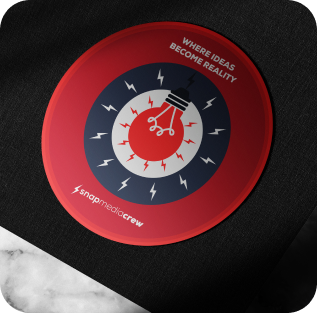
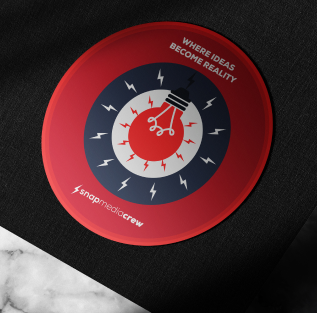
fixed meetme animations and design animations, design animations yet to be finished

diff --git a/index.html b/index.html
@@ -376,113 +376,102 @@
             <div class="container">
                 <div class="row g-lg-5">
                     <div class="col-lg-4 col-md-12 col-sm-12 col-12 mb-lg-5 mb-md-4 mb-sm-3 mb-3">
-                        <div class="rounded-5 card design-card">
-                            <img src="./images/design-folio/1.jpg" class="card-img rounded-5 img-fluid" alt="...">
-                            <div class="card-img-overlay d-flex align-items-center justify-content-center flex-column design-item">
-                                <h5 class="card-design-title fw-bolder text-white text-center mt-5">
-                                    WHERE IDEAS BECOME REALITY
-                                </h5>
-                                <p class="card-design-body mt-2 text-center fw-bold" id="highlighted-color">
-                                    SNAP MEDIA CREW
-                                </p>
-                                <div class="d-flex mx-auto">
-                                    <button class="btn design-btn ps-3 pe-4 py-2 fw-bold mt-2">
-                                        <a href="https://gear-up-bootstrap-5.netlify.app/" target="_blank">
-                                            <i class="bi bi-eye-fill pe-1"></i>
-                                            View Project
-                                        </a>
-                                    </button>
+                        <div class="rounded-5 card p-1 rounded-5 design-card">
+                            <img src="./images/design-folio/1.jpg" class="card-img rounded-5 img-fluid design" alt="...">
+                            <div class="design-body">
+                                <h5 class="text-center text-white pt-5">WHERE IDEAS BECOME REALITY</h5>
+                                <p class="text-center text-white fw-semibold design-title">STATIC SOCIAL MEDIA CONTENT</p>
+                                <div class="d-flex justify-content-center gap-2">
+                                    <img class="img-fluid mb-3 skill" src="./images/landing-page/skills/ai.png" alt="">
+                                    <img class="img-fluid mb-3 skill" src="./images/landing-page/skills/ps.png" alt="">
                                 </div>
+                                <h5 class="fw-bolder text-center pb-5" id="highlighted-color">SNAP MEDIA CREW</h5>
                             </div>
                         </div>
                     </div>
                     <div class="col-lg-8 col-md-12 col-sm-12 col-12 mb-lg-5 mb-md-4 mb-sm-3 mb-3">
-                        <div class="rounded-5 card design-card">
-                            <img src="./images/design-folio/2.jpg" class="card-img rounded-5 img-fluid" alt="...">
-                            <div class="card-img-overlay d-flex align-items-center justify-content-center flex-column design-item">
-                                <h5 class="card-design-title fw-bolder text-white text-center mt-5">
-                                    WHERE IDEAS BECOME REALITY
-                                </h5>
-                                <p class="card-design-body mt-2 text-center fw-bold" id="highlighted-color">
-                                    SNAP MEDIA CREW
-                                </p>
-                                <div class="d-flex mx-auto">
-                                    <button class="btn design-btn ps-3 pe-4 py-2 fw-bold mt-2">
-                                        <a href="https://gear-up-bootstrap-5.netlify.app/" target="_blank">
-                                            <i class="bi bi-eye-fill pe-1"></i>
-                                            View Project
-                                        </a>
-                                    </button>
+                        <div class="rounded-5 design-card">
+                            <img src="./images/design-folio/2.jpg" class="card-img rounded-5 img-fluid design" alt="...">
+                            <div class="design-body">
+                                <h5 class="text-center text-white pt-5">SOCIAL MEDIA BRANDING</h5>
+                                <p class="text-center text-white design-title">STATIC SOCIAL MEDIA CONTENT</p>
+                                <div class="d-flex justify-content-center gap-2">
+                                    <img class="img-fluid mb-3" src="./images/landing-page/skills/ai.png" alt="">
                                 </div>
+                                <h5 class="fw-bolder text-center pb-5" id="highlighted-color">SNAP MEDIA CREW</h5>
                             </div>
                         </div>
                     </div>                    
                 </div>
                 <div class="row g-5">
                     <div class="col-lg-4 col-md-12 col-sm-12 col-12 mb-lg-5 mb-md-4 mb-sm-3 mb-3">
-                        <div class="rounded-5">
+                        <div class="rounded-5 design-card">
                             <img src="./images/design-folio/18.png" class="card-img rounded-5 img-fluid" alt="...">
+                            
                         </div>
                     </div>
                     <div class="col-lg-4 col-md-12 col-sm-12 col-12 mb-lg-5 mb-md-4 mb-sm-3 mb-3">
-                        <div class="rounded-5">
+                        <div class="rounded-5 design-card">
                             <img src="./images/design-folio/30.png" class="card-img rounded-5 img-fluid" alt="...">
+                            
                         </div>
                     </div>                    
                     <div class="col-lg-4 col-md-12 col-sm-12 col-12 mb-lg-5 mb-md-4 mb-sm-3 mb-3">
-                        <div class="rounded-5">
+                        <div class="rounded-5 design-card">
                             <img src="./images/design-folio/28.png" class="card-img rounded-5 img-fluid" alt="...">
+                            
                         </div>
                     </div>                    
                 </div>
                 <div class="row g-5">
                     <div class="col-lg-12 col-md-12 col-sm-12 col-12 mb-lg-5 mb-md-4 mb-sm-3 mb-3">
-                        <div class="rounded-5">
+                        <div class="rounded-5 design-card">
                             <img src="./images/design-folio/7.png" class="card-img rounded-5 img-fluid" alt="...">
+                            
                         </div>
                     </div> 
                 </div>    
                 <div class="row g-5">
                     <div class="col-lg-8 col-md-12 col-sm-12 col-12 mb-lg-5 mb-md-4 mb-sm-3 mb-3">
-                        <div class="rounded-5">
+                        <div class="rounded-5 design-card">
                             <img src="./images/design-folio/8.png" class="card-img rounded-5 img-fluid" alt="...">
                         </div>
                     </div> 
                     <div class="col-lg-4 col-md-12 col-sm-12 col-12 mb-lg-5 mb-md-4 mb-sm-3 mb-3">
-                        <div class="rounded-5">
+                        <div class="rounded-5 design-card">
                             <img src="./images/design-folio/15.png" class="card-img rounded-5 img-fluid" alt="...">
                         </div>
                     </div> 
                 </div>    
                 <div class="row g-5">
                     <div class="col-lg-12 col-md-12 col-sm-12 col-12 mb-lg-5 mb-md-4 mb-sm-3 mb-3">
-                        <div class="rounded-5">
+                        <div class="rounded-5 design-card">
                             <img src="./images/design-folio/17.png" class="card-img rounded-5 img-fluid" alt="...">
                         </div>
                     </div> 
                 </div> 
                 <div class="row g-5">
                     <div class="col-lg-4 col-md-12 col-sm-12 col-12 mb-lg-5 mb-md-4 mb-sm-3 mb-3">
-                        <div class="rounded-5">
+                        <div class="rounded-5 design-card">
                             <img src="./images/design-folio/21.png" class="card-img rounded-5 img-fluid" alt="...">
                         </div>
                     </div> 
                     <div class="col-lg-8 col-md-12 col-sm-12 col-12 mb-lg-5 mb-md-4 mb-sm-3 mb-3">
-                        <div class="rounded-5">
+                        <div class="rounded-5 design-card">
                             <img src="./images/design-folio/10.png" class="card-img rounded-5 img-fluid" alt="...">
                         </div>
                     </div> 
                 </div>  
                 <div class="row g-5">
                     <div class="col-lg-12 col-md-12 col-sm-12 col-12 mb-lg-5 mb-md-4 mb-sm-3 mb-3">
-                        <div class="rounded-5">
+                        <div class="rounded-5 design-card">
                             <img src="./images/design-folio/13.png" class="card-img rounded-5 img-fluid" alt="...">
                         </div>
                     </div> 
                 </div> 
                 <div class="row g-5">
                     <div class="col-lg-12 col-md-12 col-sm-12 col-12 mb-lg-5 mb-md-4 mb-sm-3 mb-3">
-                        <div class="rounded-5">
+                        <div class="rounded-5 design-card">
                             <img src="./images/design-folio/22.png" class="card-img rounded-5 img-fluid" alt="...">
                         </div>
                     </div> 

diff --git a/css/style.css b/css/style.css
@@ -294,64 +294,53 @@ body{
     text-decoration: none;
     color: #FDFDFF;
 }
-
 .code-btn-light:hover,.code-btn:focus{
     background-color: #384147;
     color: #111212;
     border: none;
 }
+.design-title{
+    font-size: 15px;
+}
+.design-card{
+    /* background-color: #FDFDFF; */
+    background: url(../images/landing-page/main-bg.png);
+    transition: all 0.3s ease-in-out;
+    border: 2px solid #FDFDFF;
+}
+
+.design-card:hover{
+    transform: scale(1.05);
+    border: 2px solid #86D3E7;
+    background: #191a1b;
+}
+.design{
+    transition: all 0.3s ease-in-out;
+}
+.design:hover{
+    transform: scale(0.9);
+}
+
 /* .design-card{
-    transition: transform 0.4s ease-in-out;
+    transition: transform 0.5s ease-in-out;
     overflow: hidden;
 }
 .design-card:hover{
     transform: scale(1.05);
 }
-.design-item{
-    background: linear-gradient(
-        hsl(0, 0%, 0%, 0),
-        hsl(20, 0%, 0%, 0.6) 30%,
-        hsl(20, 0%, 0%, 0.7) 50%,
-        hsl(20, 0%, 0%, 0.8) 80%,
-        hsl(0, 0%, 0%, 0.9)
-    );
-    height: 415px;
-    border-radius: 25px;
-    --padding: 3rem;
-    padding: var(--padding);
-    transform: translateY(45%);
-    transition: transform 0.5s ease-in-out;
-}
-.design-item > *:not(.card-design-title){
+.design-body{
     opacity: 0;
-    transition: transform 0.5s ease-in-out;
+    background:rgba(255, 255, 255, 0.9);
+    width: 100%; 
+    border-radius: 30px;
+    transform: translateY(0); 
 }
-.card-design-title{
-    position: relative;
-    width: max-content;
-}
-.card-design-title::after{
-    content: "";
-    position: absolute;
-    left: calc(var(--padding) * -1);
-    bottom: -3px;
-    height: 3px;
-    width: calc(100% + var(--padding));
-    background-color: #86D3E7;
-    transform: scaleX(0);
-    transition: transform 0.5s ease-in-out;
-    transform-origin: left;
-}
-.design-card:hover .card-design-title::after{
-    transform: scaleX(1);
-}
-.design-card:hover .design-item{
-    transform: translateY(0);
-    transition-delay: 0.5s;
-}
-.design-card:hover .design-item > *:not(.card-design-title){
+
+.design-card:hover .design-body{
     opacity: 1;
-    transition-delay: 1s;
+    transform: translateY(-100%);
+    transition: all 0.5s ease-in-out;
+    transition-delay: 0.5s;
 } */
 
 .design-btn{
@@ -384,7 +373,7 @@ body{
     background-color: #384147;
     color: #111212;
     border: none;
-}
+} 
 /* PROJECTS */
 
 /* SKILLS */
